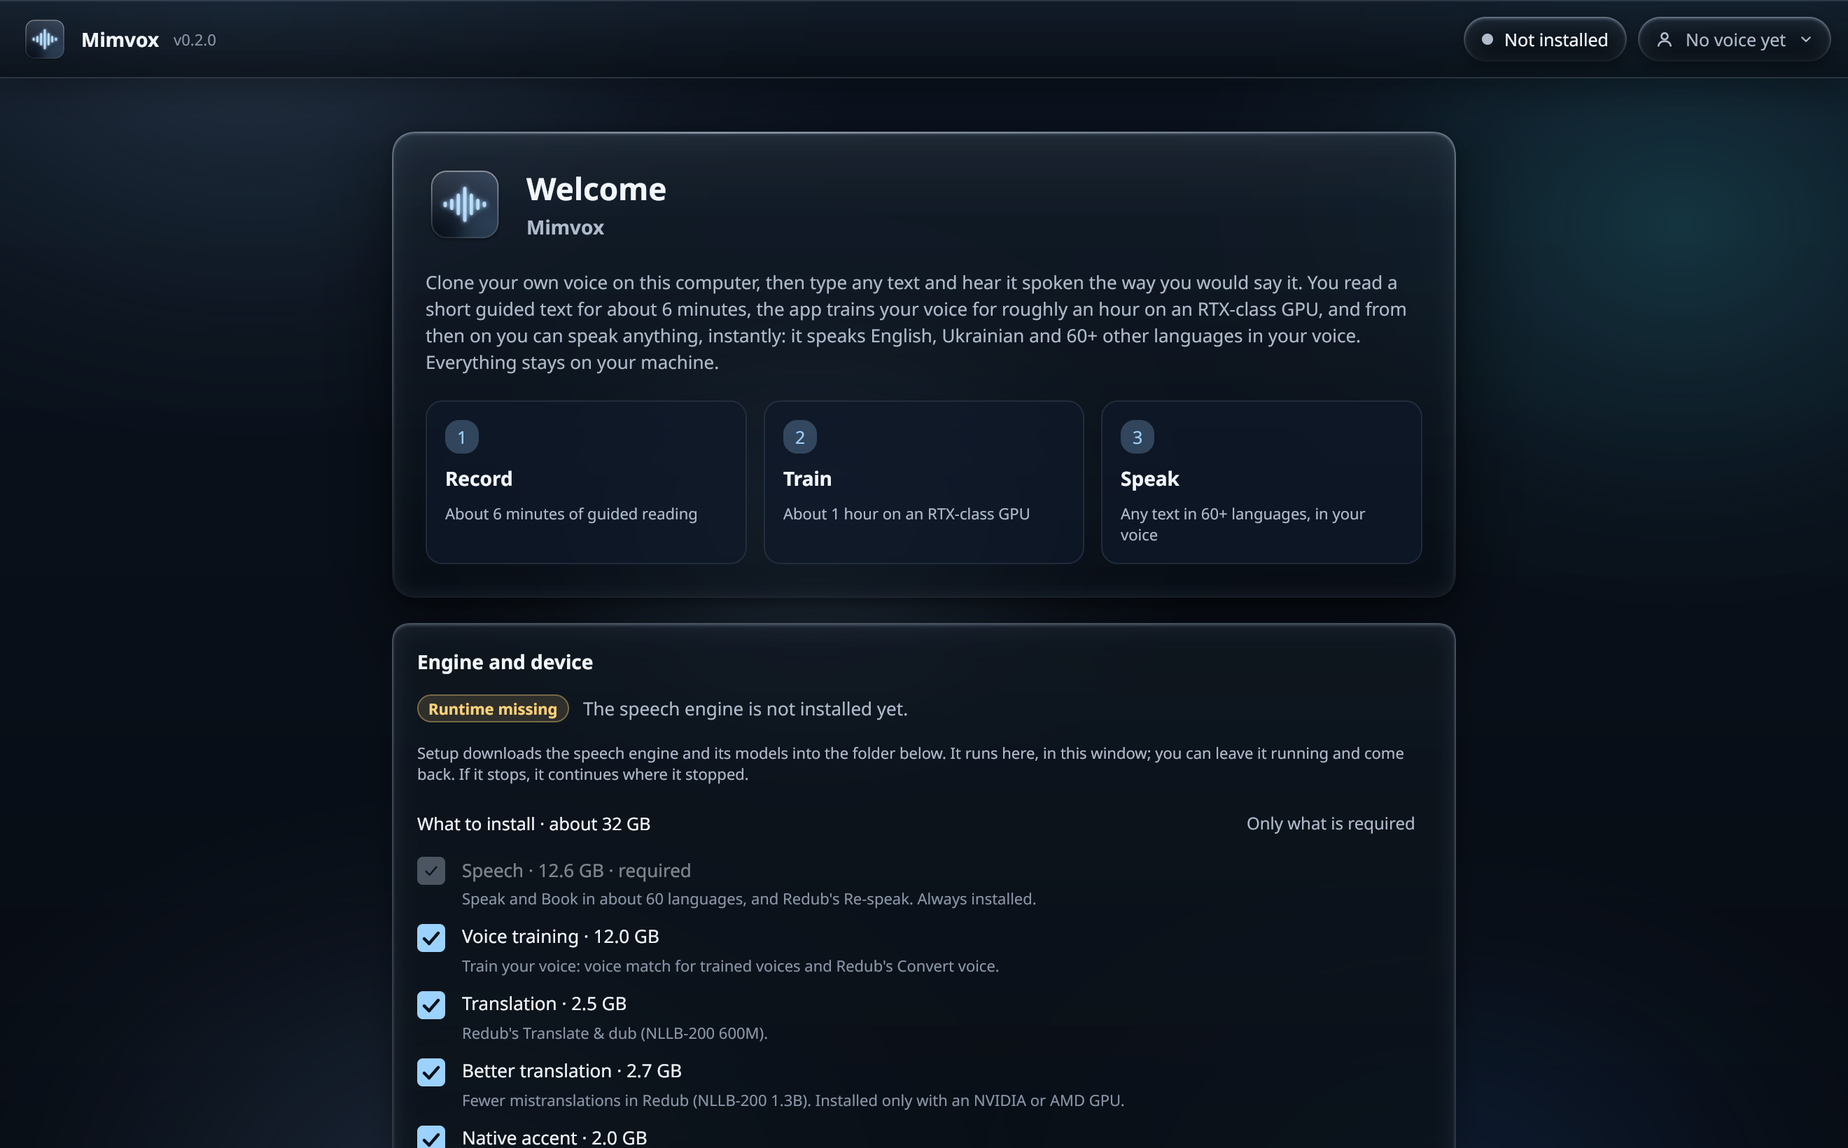
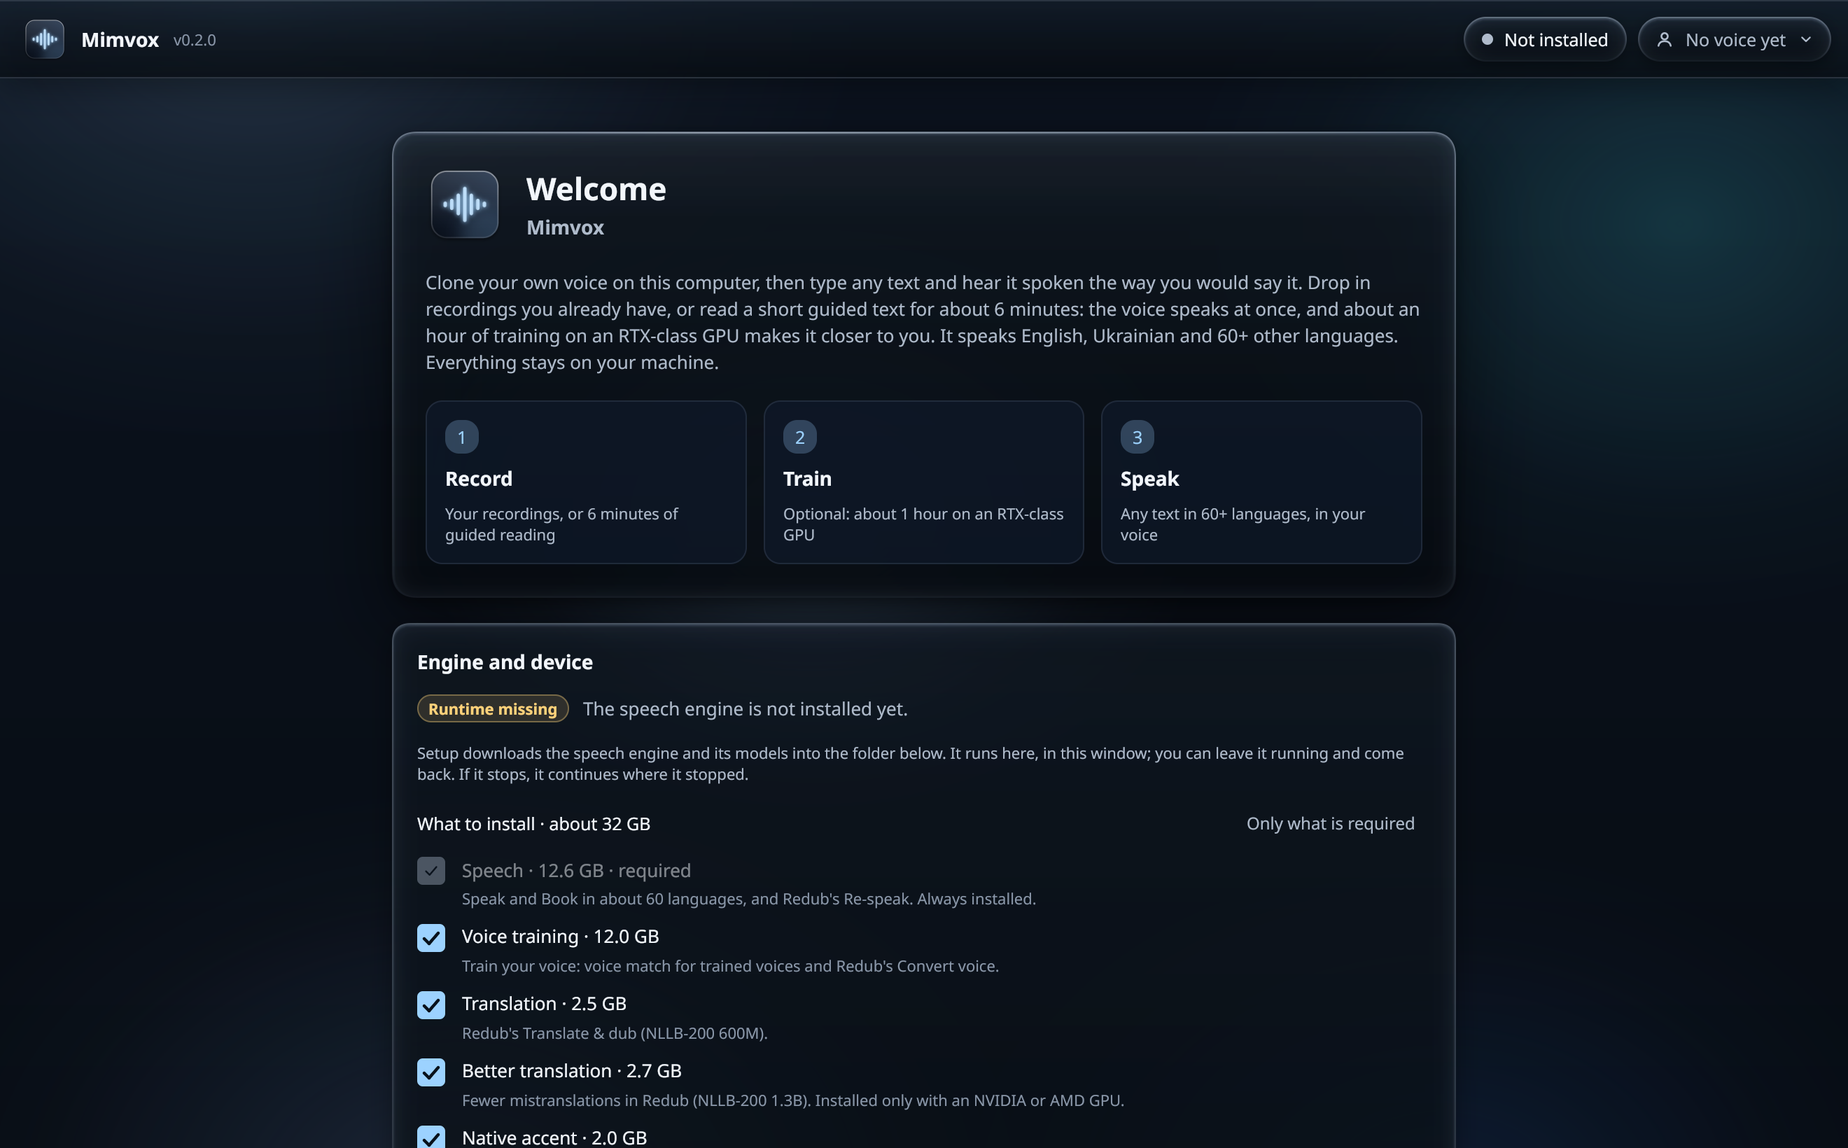
docs: refresh the guide, screenshots and demo GIF
- README: a voice from recordings you already have, the reading languages
  (with Romanian), models on demand and the memory limits, the new messages
  in Troubleshooting.
- Usage and recording guides: the same, with two new pictures (the dialog
  for dropped files, Redub's Output panel).
- Every screenshot, the demo GIF and the social preview rendered again from
  the current app.
- Welcome screen: says that recordings you already have work too and that
  training is optional. The files dialog is opaque (the page showed through).

Changed region(s): [[0.2174, 0.2177, 0.7765, 0.311], [0.4038, 0.4354, 0.5591, 0.4665], [0.2485, 0.4354, 0.3727, 0.4665]]

diff --git a/app/src/ui/onboarding.rs b/app/src/ui/onboarding.rs
@@ -427,9 +427,9 @@ pub fn view(s: &AppState, cx: &mut Cx<AppState>) -> El {
 
     let intro = text(
         "Clone your own voice on this computer, then type any text and hear it spoken the way you would say it. \
-         You read a short guided text for about 6 minutes, the app trains your voice for roughly an hour on an \
-         RTX-class GPU, and from then on you can speak anything, instantly: it speaks English, Ukrainian and 60+ other \
-         languages in your voice. Everything stays on your machine.",
+         Drop in recordings you already have, or read a short guided text for about 6 minutes: the voice speaks at \
+         once, and about an hour of training on an RTX-class GPU makes it closer to you. It speaks English, Ukrainian \
+         and 60+ other languages. Everything stays on your machine.",
     )
     .font(ty::BODY)
     .color(p.text_dim)
@@ -438,8 +438,8 @@ pub fn view(s: &AppState, cx: &mut Cx<AppState>) -> El {
     let steps = row()
         .w_full()
         .gap(12.0)
-        .child(step(&p, 1, "Record", "About 6 minutes of guided reading"))
-        .child(step(&p, 2, "Train", "About 1 hour on an RTX-class GPU"))
+        .child(step(&p, 1, "Record", "Your recordings, or 6 minutes of guided reading"))
+        .child(step(&p, 2, "Train", "Optional: about 1 hour on an RTX-class GPU"))
         .child(step(&p, 3, "Speak", "Any text in 60+ languages, in your voice"));
 
     let mut page = col().w_full().gap(18.0).child(

diff --git a/app/src/ui/record/files.rs b/app/src/ui/record/files.rs
@@ -102,7 +102,7 @@ pub fn overlay(s: &AppState, p: &Pal) -> Option<El> {
         listed.push_str(&format!(" and {} more", paths.len() - names.len()));
     }
     let mut card = col().key("files-dialog").w(540.0).padding(24.0).gap(14.0).radius(radius::PANEL)
-        .fill(rune::oklcha(0.2, 0.03, 255.0, 0.97)).border_gradient(1.0, p.rim_top, p.rim_bottom).shadow(18.0, 50.0, p.shadow)
+        .fill(rune::oklcha(0.2, 0.03, 255.0, 1.0)).border_gradient(1.0, p.rim_top, p.rim_bottom).shadow(18.0, 50.0, p.shadow)
         .child(text("Whose voice is in these files?").font(ty::TITLE).color(p.text))
         .child(txt(listed, 12.5, 400.0, p.text_dim).wrap())
         .child(choice(p, "files-new", !into, "A new voice".into(), "The files become a voice of their own.", |s: &mut AppState| s.record.files.into_current = false));

diff --git a/app/src/ui/record/fixtures.rs b/app/src/ui/record/fixtures.rs
@@ -140,7 +140,7 @@ fn uk_presets() -> Vec<Preset> {
 }
 
 fn uk_languages(s: &mut AppState) {
-    s.record.languages = [("en", "English", "English"), ("uk", "Ukrainian", "Українська"), ("de", "German", "Deutsch"), ("fr", "French", "Français"), ("es", "Spanish", "Español"), ("pl", "Polish", "Polski")]
+    s.record.languages = [("en", "English", "English"), ("uk", "Ukrainian", "Українська"), ("de", "German", "Deutsch"), ("fr", "French", "Français"), ("es", "Spanish", "Español"), ("pl", "Polish", "Polski"), ("ro", "Romanian", "Română")]
         .iter()
         .map(|(c, n, nat)| RecLang { code: (*c).into(), name: (*n).into(), native: (*nat).into() })
         .collect();

diff --git a/README.md b/README.md
@@ -4,13 +4,13 @@
   <p><strong>Clone your own voice on your own computer, then type text in English, Ukrainian or about 60 other languages and hear it in your voice.</strong></p>
 </div>
 
-Mimvox is a desktop app. You read a short guided text into your microphone, the app trains a voice model
-from that recording, and from then on you type any text (English, Ukrainian and about 60 more languages) and hear it
-spoken in your own voice. Everything runs
+Mimvox is a desktop app. You drop in recordings you already have, or read a short guided text into your microphone;
+the app can train a voice model from that, and from then on you type any text (English, Ukrainian and about 60 more
+languages) and hear it spoken in your own voice. Everything runs
 on your computer: your recordings, your voice models and the generated speech are never uploaded anywhere.
 
 <p align="center">
-  <img src="docs/demo.gif" alt="Mimvox: setup, recording, training, speaking, an audiobook and dubbing in your own voice" width="880">
+  <img src="docs/demo.gif" alt="Mimvox: setup, a voice from your recordings or a reading, training, speaking, an audiobook and dubbing in your own voice" width="880">
 </p>
 
 > [!WARNING]
@@ -85,11 +85,13 @@ recordings joined with short pauses).
 
 | Feature | Description |
 | --- | --- |
-| **Guided recording presets** | Pick a preset and read the text on screen: **Quick** (about 1 minute, usable at once with no training), **Standard** (about 6-7 minutes, trains a timbre model, the validated setup) or **Pro** (about 15-20 minutes, best similarity). One part at a time, with big text, one key to start and stop, automatic saving and automatic advance. |
-| **Your own text** | Prefer to read something else? Paste your text and the app analyses it: word count, estimated reading time, **phoneme coverage** (which English sounds your text covers and which are missing), and a verdict (too short, zero-shot, trainable, great). It then splits the text into parts of about 60-90 seconds. |
+| **A voice from recordings you already have** | Drop audio or video of one person on **Record** (a voice memo, a podcast, a video): no reading and no preset. The app asks whose voice it is (a new voice, or more recordings of the selected one), cleans and joins the files, and the voice speaks at once; with three minutes or more it can also be trained. |
+| **Guided recording presets** | Or read the text on screen: **Quick** (about 1 minute, usable at once with no training), **Standard** (about 6-7 minutes, trains a timbre model, the validated setup) or **Pro** (about 15-20 minutes, best similarity), with reading texts written for English, Ukrainian, German, French, Spanish, Polish and Romanian. One part at a time, with big text, one key to start and stop, automatic saving and automatic advance. |
+| **Your own text** | Prefer to read something else? Paste your text and the app analyses it: word count, estimated reading time, **phoneme coverage** (which sounds of the language your text covers and which are missing), and a verdict (too short, zero-shot, trainable, great). It then splits the text into parts of about 60-90 seconds. |
 | **Recording quality checks** | Every take is checked right away: duration, peak level, clipping, loudness, noise floor, signal-to-noise ratio and silence. You get a plain verdict (ok, warn, bad) with advice such as "Too quiet: speak closer to the mic", so you re-record before training, not after. |
 | **One-click training** | Press **Train**. The app prepares the dataset, extracts features, trains the timbre model, builds its index, shows progress and an estimated time, and can be cancelled. The number of epochs is chosen from the length of your recording. |
-| **Fast streaming generation** | Type text in English, Ukrainian or another supported language and press **Speak**. Long text is split into segments and each segment plays as soon as it is ready, while the rest is still being generated. The models stay loaded in a persistent engine, so the second phrase is much faster than the first. |
+| **Fast streaming generation** | Type text in English, Ukrainian or another supported language and press **Speak**. Long text is split into segments and each segment plays as soon as it is ready, while the rest is still being generated. The models stay loaded while you work, so the second phrase is much faster than the first. |
+| **Light when idle, safe when full** | The models load when they are needed and leave memory after 10 idle minutes: an idle Mimvox keeps about 0.3 GB of RAM and nothing on the graphics card. Each model process is fenced to the memory that is free, so a generation that does not fit stops with a plain message; it cannot run the computer out of memory. |
 | **Audiobooks** | Open a book (EPUB, DOCX, ODT, FB2, PDF with text, TXT in any encoding, Markdown, HTML, RTF, subtitles) and **Book** mode reads it in your voice, one file per chapter (WAV, MP3, ...; optionally one M4B with chapter marks). Chapters are found from the book's structure and can be ticked, renamed, split or joined. Whole sentences, pauses that follow the punctuation, every chapter levelled to the same loudness. Pause and resume at any time, even after closing the app; progress shows the chapter, the time left and the speed. Short text files open straight in Speak. |
 | **Native English accent** | A voice recorded in Ukrainian (or any other language) would speak English with your accent. **Native (American)**, the default when the reference clip is not English, has a native US speaker from the public CMU ARCTIC corpus say the text, then gives it your timbre: with no training at all, from your reference clip (Seed-VC zero-shot voice conversion, installed by setup), or, once the voice is trained, with your own voice model at your pitch, which is closer to you. Also in Redub's Translate & dub and Re-speak into English. |
 | **Redub a video, music kept** | Drop a video and Redub translates and dubs it (or re-speaks it, or converts the voice) in your voice, then writes a copy of the video with the new voice: the original music and sound effects are separated from the old voice and kept under yours, at the original balance, and the picture is copied without re-encoding. Or save the audio only. |
@@ -124,8 +126,10 @@ recordings joined with short pauses).
    speaker-similarity score (ECAPA), RVC lifts an English paragraph from about 0.81 to about 0.94, where 0.93 is the
    score of your own real recordings against each other. For other languages than the one you recorded in, the RVC
    index is used at a lower rate so the words stay clear. Details: [docs/performance.md](docs/performance.md).
-3. **A persistent engine.** The app starts a Python engine once (a child process) and keeps OmniVoice and the RVC
-   worker loaded in GPU memory, so the first sound of a phrase comes after about 1-3 s. The app and the engine talk
+3. **A persistent engine.** The app starts a Python engine once (a child process). The engine loads OmniVoice, and
+   the RVC worker for a trained voice, when they are first needed and keeps them in GPU memory while you work, so the
+   first sound of a phrase comes after about 1-3 s; after 10 idle minutes they leave memory and the next phrase loads
+   them again (about 10 s). The app and the engine talk
    JSON lines over stdin/stdout: [contract/engine-protocol.md](contract/engine-protocol.md).
 4. **The app** is written in Rust on [Rune](https://github.com/anomalyco/rune), with microphone capture and playback
    through `cpal` and `hound`. The UI never blocks and never polls: engine messages and audio arrive as events.
@@ -157,7 +161,8 @@ More: [docs/architecture.md](docs/architecture.md).
    by itself, with a progress list in its window: about 13 GB for speech alone, about 33 GB for everything (voice
    training, translation, native accent, music removal). A part left out installs later in one click, on the screen
    that needs it.
-3. Choose a preset (or paste your own text), record, press **Train**, and start typing.
+3. Drop recordings you already have on **Record**, or choose a preset (or paste your own text) and read it. Start
+   typing; press **Train** for a closer copy of the voice.
 
 The [usage guide](docs/usage.md#1-install-and-first-start) covers the details (the first-run warnings of unsigned
 installers, the install location, updates).
@@ -211,7 +216,7 @@ engine/                Python engine (mimvox_engine), runs in the engine virtual
     backends/          speech model: OmniVoice worker, text normalization (numbers, abbreviations)
     dataset/           recording checks, text analysis, dataset management
     training/          RVC training driver
-presets/<lang>/        the guided reading texts (Quick, Standard, Pro) per language: en uk de fr es pl
+presets/<lang>/        the guided reading texts (Quick, Standard, Pro) per language: en uk de fr es pl ro
 contract/              engine-protocol.md: the app <-> engine protocol and data layout
 tools/setup/           setup.py (run by the app on first start, and by setup.sh / setup.cmd for developers)
 tools/release/         icons and release helpers
@@ -248,8 +253,8 @@ Where your data lives (voices, datasets, trained models, generated audio) is des
 | --- | --- |
 | **Setup fails to clone a repository on Windows with a TLS / certificate error.** The Git that Windows ships in some environments is MinGit, whose default TLS backend cannot verify some certificates. | Run Git with the Windows certificate store: `git -c http.sslBackend=schannel clone ...`, or set it once with `git config --global http.sslBackend schannel`. Then run `setup.cmd` again. |
 | **A model download stops with a timeout or a Hugging Face connection error.** The model files are large (several GB). | Run setup again: downloads resume and finished files are skipped. If your connection to huggingface.co is slow or filtered, set `HF_ENDPOINT` to a mirror, or `HF_HUB_DOWNLOAD_TIMEOUT=120` for a longer timeout, and retry. |
-| **"CUDA out of memory", or generation suddenly gets very slow.** OmniVoice and the RVC worker share the GPU. | Close other programs that use the GPU (games, browsers with hardware acceleration, other models). 8 GB is the practical minimum; 12 GB is comfortable. Do not train while generating. If it keeps happening, restart the app: the engine reloads cleanly. |
-| **The first phrase takes a long time.** | The first phrase loads the models (RVC alone takes about 16 s cold against 1.7 s warm). Later phrases are much faster. Leave the app open: the models stay loaded. |
+| **"Not enough free GPU memory" or "not enough free memory (RAM)".** Mimvox gives each model only the memory that is free, and stops a job that does not fit instead of letting the computer run out. | Close other programs that use the graphics card or a lot of memory (games, video, browsers with hardware acceleration, other models) and try again. 8 GB of video memory is the practical minimum; 12 GB is comfortable. Do not train while generating. |
+| **The first phrase takes a long time.** | The first phrase loads the models (RVC alone takes about 16 s cold against 1.7 s warm). Later phrases are much faster. After 10 minutes without use the models leave memory, so the first phrase after a break loads them again (about 10 s). |
 | **My recording is "too quiet".** | Move the microphone to 15-20 cm from your mouth, raise the input level in your system's sound settings, and record again. Avoid laptop microphones far from you. |
 | **My recording is "clipping" or "too loud".** | Move the microphone further away, lower the input level, and do not speak straight into it (use it slightly to the side to avoid plosives). Re-record that part. |
 | **The voice has a foreign accent in another language.** | OmniVoice carries the accent of the reference clip into the target language: an English reference gives Ukrainian with a slight English colour. Put a 7-12 s clip of you speaking that language as `reference_<lang>.wav` (for example `reference_uk.wav`) in the voice's folder; it is used for that language. For English there is also **Accent: Native (American)** (no training needed; see the usage guide). |

diff --git a/docs/usage.md b/docs/usage.md
@@ -239,6 +239,8 @@ video), or press **Choose files…**. A dialog asks **whose voice is in these fi
 - **More recordings of "<the active voice>"**: only when it is the same person; the files join that voice's
   recordings. (This is the default when the active voice is still empty.)
 
+![The dialog that asks whose voice is in the dropped files](screenshots/usage-record-files.png)
+
 The files are cleaned and joined (silence trimmed, loudness evened out, background music removed when that is turned
 on, at most 20 minutes) and stored in the voice. The card then says how much clean speech the voice has: one clean
 minute is enough to **Speak with it**; with three minutes or more **Train a closer copy** is offered too. Files with
@@ -552,8 +554,10 @@ hardware the app holds the first segment back a little (*Getting ahead · part k
 
 The playback shows in the [player bar](#the-player-bar), where you can pause it or change its speed while it plays.
 
-The very first phrase after the app starts is slower, because the voice has to be prepared (*Preparing voice…*). Later
-phrases are much faster: leave the app open and the models stay loaded.
+The very first phrase after the app starts is slower, because the models load and the voice has to be prepared
+(*Preparing voice…*). Later phrases are much faster. After 10 minutes without use the models leave memory (an idle
+Mimvox keeps about 0.3 GB of RAM and nothing on the graphics card), so the first phrase after a break loads them
+again, in about 10 seconds.
 
 ### Results and export
 
@@ -740,6 +744,8 @@ showing what is chosen now: **Accent** (*Native (American) · closest speaker*) 
 voice · music and sounds kept · original timing*). Press **Change** on a line: its choices open in a small panel
 over the page, and nothing else moves. **Done**, or a press outside the panel, closes it.
 
+![The Output choices of a video, open in their panel](screenshots/usage-redub-output.png)
+
 ### Example: a Ukrainian video to English in a couple of clicks
 
 1. Open **Redub** and drop `interview.mp4` (a video of you speaking Ukrainian).
@@ -918,7 +924,7 @@ More detail: the [recording guide](recording-guide.md).
 | --- | --- |
 | **"The voice engine stopped"** (banner under the header, the pill says *Engine stopped*) | Press **Retry** in the banner, or press the pill. The banner shows the last error line. If it keeps stopping, look at the engine log (below) and run `./setup.sh --quick-check` (or `setup.cmd --quick-check`) to verify the install. A *"not set up yet"* message means setup has not completed: run it again. |
 | **Generation is slow** | The first phrase after start is always slower (the models and the voice are being prepared). Check the device on the welcome screen or by hovering the *Ready* pill: it should name your NVIDIA GPU. If setup reported the `cpu` backend, re-run setup on a machine with a supported GPU and current NVIDIA driver. Close other programs that use the GPU (games, other AI tools, browsers with hardware acceleration). **Fast** quality is about twice as fast per sentence. Do not train while you want to speak. |
-| **"CUDA out of memory"** | Close other programs that use the GPU. 8 GB of video memory is the practical minimum. If it persists, restart the app so the engine reloads cleanly. |
+| **"Not enough free GPU memory"** or **"not enough free memory (RAM)"** | Mimvox gives each model only the memory that is free and stops a job that does not fit, so the computer never runs out. Close other programs that use the graphics card or a lot of memory (games, video, browsers) and try again. 8 GB of video memory is the practical minimum. |
 | **The microphone is missing** | Open the microphone chip on Record: the list is refreshed every time it opens. Plug the microphone in before opening it, check that it is enabled and not muted in your system's sound settings, and that the app is allowed to use the microphone (macOS and Windows privacy settings). *"Cannot use this microphone"* shows the system's reason. A remembered microphone that is gone falls back to the system default with a warning. |
 | **"No clear speech found"** on every take | The wrong input is selected, or it is muted. Use the level test in the microphone list: the bar must move when you speak. |
 | **A file is refused** | *"That kind of file is not supported"*: use one of the formats listed in [Redub](#supported-formats-and-exporting). A video without sound gives *"This file has no audio track."* |

diff --git a/docs/recording-guide.md b/docs/recording-guide.md
@@ -30,8 +30,12 @@ about halfway and never touch the top.
 
 ## Presets and how much data you need
 
-The presets exist in English, Ukrainian, German, French, Spanish, Polish and Romanian. Each language has its own texts, written
-for that language (not translated), with the same parts and reading times.
+The presets exist in English, Ukrainian, German, French, Spanish, Polish and Romanian. Each language has its own
+texts, written for that language (not translated), with the same parts and reading times.
+
+Reading is not the only way: recordings you already have of the same person (voice memos, a podcast, a video) can be
+dropped on **Record** instead, and the amounts below apply to them too (see
+[Use recordings you already have](usage.md#use-recordings-you-already-have)).
 
 | Preset | Recording time | What happens | Result |
 | --- | --- | --- | --- |
